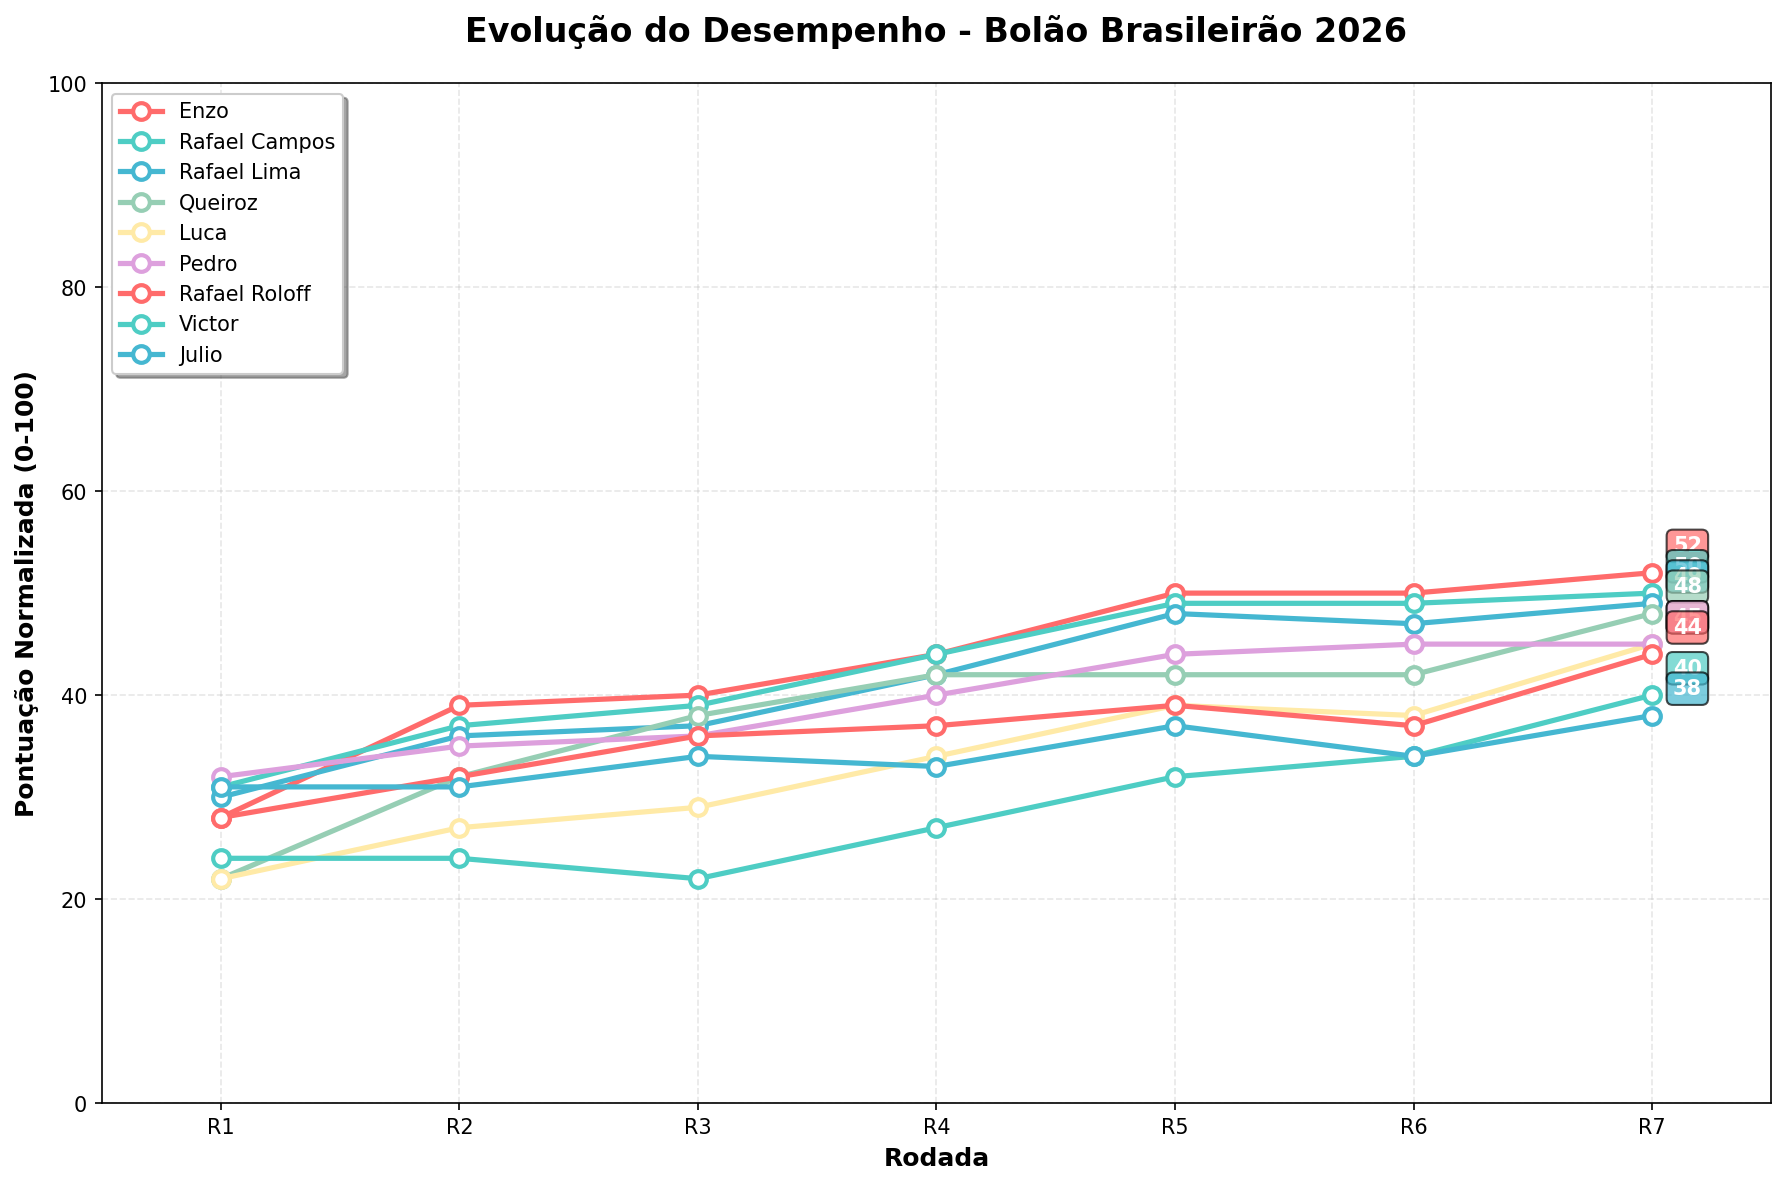
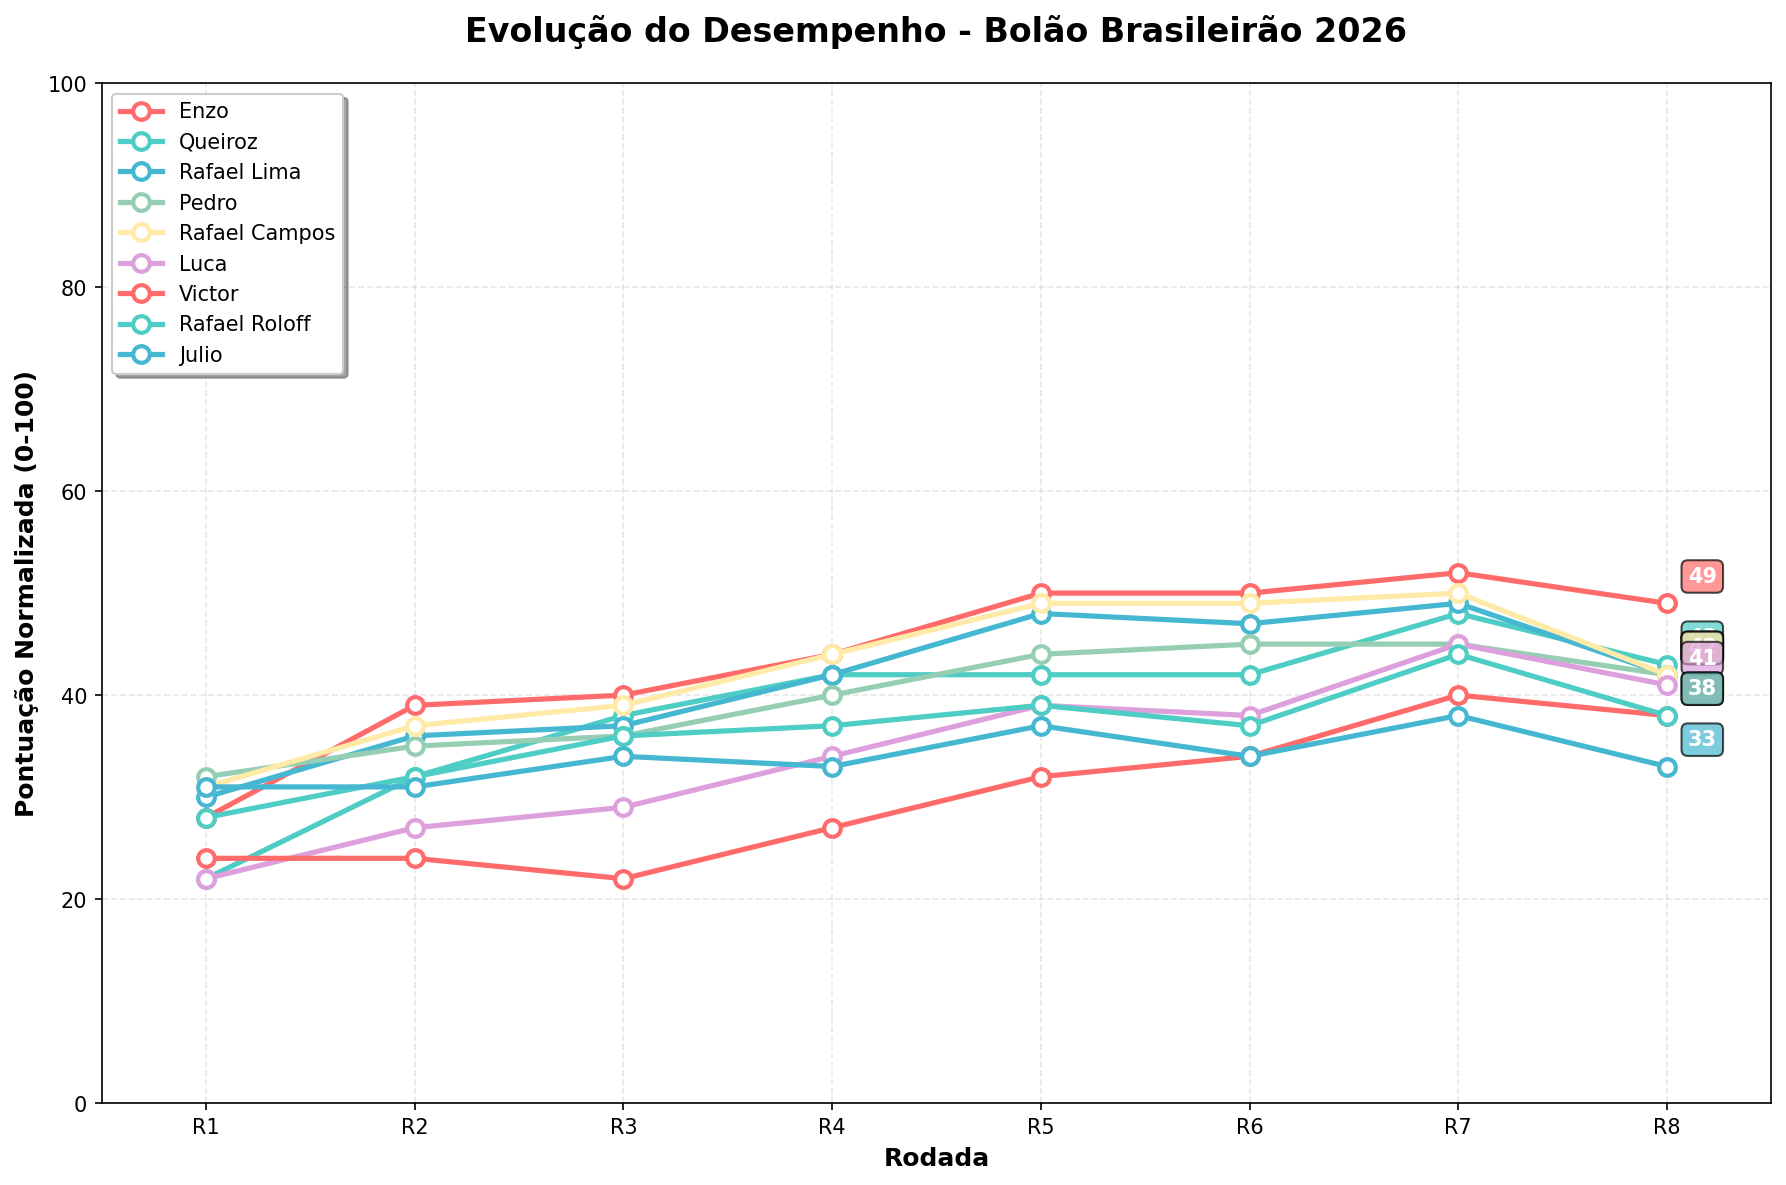
Atualizacao automatica - 23/03/2026 11:00:05,77

diff --git a/README.md b/README.md
@@ -2,68 +2,69 @@
 
 ## 🏆 Resultados Atuais
 
-**Última Atualização:** 2026-03-21 11:00:03
+**Última Atualização:** 2026-03-23 11:00:04
 
-| Time | Real | Enzo | Rafael Campos | Rafael Lima | Queiroz | Luca | Pedro | Rafael Roloff | Victor | Julio |
+| Time | Real | Enzo | Queiroz | Rafael Lima | Pedro | Rafael Campos | Luca | Victor | Rafael Roloff | Julio |
 |------|------|------|------|------|------|------|------|------|------|------|
-| Palmeiras | 1 | 2°(19p) | 3°(18p) | 3°(18p) | 3°(18p) | 3°(18p) | 3°(18p) | 2°(19p) | 3°(18p) | 2°(19p) |
-| São Paulo | 2 | 16°(6p) | 12°(10p) | 14°(8p) | 17°(5p) | 14°(8p) | 15°(7p) | 16°(6p) | 16°(6p) | 15°(7p) |
-| Bahia | 3 | 5°(18p) | 4°(19p) | 4°(19p) | 4°(19p) | 5°(18p) | 7°(16p) | 6°(17p) | 9°(14p) | 5°(18p) |
-| Flamengo | 4 | 1°(17p) | 1°(17p) | 1°(17p) | 1°(17p) | 1°(17p) | 2°(18p) | 1°(17p) | 1°(17p) | 1°(17p) |
-| Fluminense | 5 | 4°(19p) | 7°(18p) | 6°(19p) | 7°(18p) | 8°(17p) | 4°(19p) | 8°(17p) | 10°(15p) | 7°(18p) |
-| Coritiba | 6 | 15°(11p) | 16°(10p) | 16°(10p) | 12°(14p) | 20°(6p) | 19°(7p) | 14°(12p) | 20°(6p) | 19°(7p) |
-| Grêmio | 7 | 7°(20p) | 6°(19p) | 7°(20p) | 5°(18p) | 6°(19p) | 6°(19p) | 12°(15p) | 4°(17p) | 18°(9p) |
-| Atlético-PR | 8 | 17°(11p) | 17°(11p) | 17°(11p) | 15°(13p) | 17°(11p) | 18°(10p) | 17°(11p) | 13°(15p) | 17°(11p) |
-| Corinthians | 9 | 8°(19p) | 8°(19p) | 9°(20p) | 6°(17p) | 10°(19p) | 8°(19p) | 5°(16p) | 8°(19p) | 9°(20p) |
-| Vasco | 10 | 9°(19p) | 14°(16p) | 15°(15p) | 10°(20p) | 9°(19p) | 10°(20p) | 11°(19p) | 12°(18p) | 11°(19p) |
-| Atlético-MG | 11 | 12°(19p) | 5°(14p) | 5°(14p) | 9°(18p) | 4°(13p) | 13°(18p) | 4°(13p) | 2°(11p) | 4°(13p) |
-| Bragantino | 12 | 6°(14p) | 10°(18p) | 10°(18p) | 18°(14p) | 13°(19p) | 9°(17p) | 13°(19p) | 15°(17p) | 10°(18p) |
-| Vitória | 13 | 18°(15p) | 18°(15p) | 18°(15p) | 19°(14p) | 18°(15p) | 17°(16p) | 18°(15p) | 17°(16p) | 16°(17p) |
-| Chapecoense | 14 | 19°(15p) | 19°(15p) | 19°(15p) | 20°(14p) | 19°(15p) | 20°(14p) | 19°(15p) | 18°(16p) | 20°(14p) |
-| Mirassol | 15 | 13°(18p) | 11°(16p) | 11°(16p) | 8°(13p) | 12°(17p) | 12°(17p) | 10°(15p) | 14°(19p) | 8°(13p) |
-| Santos | 16 | 11°(15p) | 13°(17p) | 12°(16p) | 13°(17p) | 7°(11p) | 11°(15p) | 9°(13p) | 11°(15p) | 12°(16p) |
-| Internacional | 17 | 14°(17p) | 15°(18p) | 13°(16p) | 14°(17p) | 15°(18p) | 14°(17p) | 15°(18p) | 6°(9p) | 14°(17p) |
-| Botafogo | 18 | 10°(12p) | 9°(11p) | 8°(10p) | 11°(13p) | 11°(13p) | 5°(7p) | 7°(9p) | 5°(7p) | 6°(8p) |
-| Cruzeiro | 19 | 3°(4p) | 2°(3p) | 2°(3p) | 2°(3p) | 2°(3p) | 1°(2p) | 3°(4p) | 7°(8p) | 3°(4p) |
-| Remo | 20 | 20°(20p) | 20°(20p) | 20°(20p) | 16°(16p) | 16°(16p) | 16°(16p) | 20°(20p) | 19°(19p) | 13°(13p) |
-| **TOTAL** | | **308** | **304** | **300** | **298** | **292** | **292** | **290** | **282** | **278** |
+| Palmeiras | 1 | 2°(19p) | 3°(18p) | 3°(18p) | 3°(18p) | 3°(18p) | 3°(18p) | 3°(18p) | 2°(19p) | 2°(19p) |
+| São Paulo | 2 | 16°(6p) | 17°(5p) | 14°(8p) | 15°(7p) | 12°(10p) | 14°(8p) | 16°(6p) | 16°(6p) | 15°(7p) |
+| Fluminense | 3 | 4°(19p) | 7°(16p) | 6°(17p) | 4°(19p) | 7°(16p) | 8°(15p) | 10°(13p) | 8°(15p) | 7°(16p) |
+| Flamengo | 4 | 1°(17p) | 1°(17p) | 1°(17p) | 2°(18p) | 1°(17p) | 1°(17p) | 1°(17p) | 1°(17p) | 1°(17p) |
+| Bahia | 5 | 5°(20p) | 4°(19p) | 4°(19p) | 7°(18p) | 4°(19p) | 5°(20p) | 9°(16p) | 6°(19p) | 5°(20p) |
+| Atlético-PR | 6 | 17°(9p) | 15°(11p) | 17°(9p) | 18°(8p) | 17°(9p) | 17°(9p) | 13°(13p) | 17°(9p) | 17°(9p) |
+| Coritiba | 7 | 15°(12p) | 12°(15p) | 16°(11p) | 19°(8p) | 16°(11p) | 20°(7p) | 20°(7p) | 14°(13p) | 19°(8p) |
+| Grêmio | 8 | 7°(19p) | 5°(17p) | 7°(19p) | 6°(18p) | 6°(18p) | 6°(18p) | 4°(16p) | 12°(16p) | 18°(10p) |
+| Vasco | 9 | 9°(20p) | 10°(19p) | 15°(14p) | 10°(19p) | 14°(15p) | 9°(20p) | 12°(17p) | 11°(18p) | 11°(18p) |
+| Vitória | 10 | 18°(12p) | 19°(11p) | 18°(12p) | 17°(13p) | 18°(12p) | 18°(12p) | 17°(13p) | 18°(12p) | 16°(14p) |
+| Corinthians | 11 | 8°(17p) | 6°(15p) | 9°(18p) | 8°(17p) | 8°(17p) | 10°(19p) | 8°(17p) | 5°(14p) | 9°(18p) |
+| Internacional | 12 | 14°(18p) | 14°(18p) | 13°(19p) | 14°(18p) | 15°(17p) | 15°(17p) | 6°(14p) | 15°(17p) | 14°(18p) |
+| Atlético-MG | 13 | 12°(19p) | 9°(16p) | 5°(12p) | 13°(20p) | 5°(12p) | 4°(11p) | 2°(9p) | 4°(11p) | 4°(11p) |
+| Bragantino | 14 | 6°(12p) | 18°(16p) | 10°(16p) | 9°(15p) | 10°(16p) | 13°(19p) | 15°(19p) | 13°(19p) | 10°(16p) |
+| Chapecoense | 15 | 19°(16p) | 20°(15p) | 19°(16p) | 20°(15p) | 19°(16p) | 19°(16p) | 18°(17p) | 19°(16p) | 20°(15p) |
+| Santos | 16 | 11°(15p) | 13°(17p) | 12°(16p) | 11°(15p) | 13°(17p) | 7°(11p) | 11°(15p) | 9°(13p) | 12°(16p) |
+| Botafogo | 17 | 10°(13p) | 11°(14p) | 8°(11p) | 5°(8p) | 9°(12p) | 11°(14p) | 5°(8p) | 7°(10p) | 6°(9p) |
+| Mirassol | 18 | 13°(15p) | 8°(10p) | 11°(13p) | 12°(14p) | 11°(13p) | 12°(14p) | 14°(16p) | 10°(12p) | 8°(10p) |
+| Remo | 19 | 20°(19p) | 16°(17p) | 20°(19p) | 16°(17p) | 20°(19p) | 16°(17p) | 19°(20p) | 20°(19p) | 13°(14p) |
+| Cruzeiro | 20 | 3°(3p) | 2°(2p) | 2°(2p) | 1°(1p) | 2°(2p) | 2°(2p) | 7°(7p) | 3°(3p) | 3°(3p) |
+| **TOTAL** | | **300** | **288** | **286** | **286** | **286** | **284** | **278** | **278** | **268** |
 
 ### 🏅 Classificação Atual (pontuação normalizada 0-100)
 
-🥇 **Enzo**: 52 pontos<br>
-🥈 **Rafael Campos**: 50 pontos<br>
-🥉 **Rafael Lima**: 49 pontos<br>
-4. **Queiroz**: 48 pontos<br>
-5. **Luca**: 45 pontos<br>
-6. **Pedro**: 45 pontos<br>
-7. **Rafael Roloff**: 44 pontos<br>
-8. **Victor**: 40 pontos<br>
-9. **Julio**: 38 pontos<br>
+🥇 **Enzo**: 49 pontos<br>
+🥈 **Queiroz**: 43 pontos<br>
+🥉 **Rafael Lima**: 42 pontos<br>
+4. **Pedro**: 42 pontos<br>
+5. **Rafael Campos**: 42 pontos<br>
+6. **Luca**: 41 pontos<br>
+7. **Victor**: 38 pontos<br>
+8. **Rafael Roloff**: 38 pontos<br>
+9. **Julio**: 33 pontos<br>
 
 ### 📈 Histórico de Desempenho
 
 ![Gráfico de Performance](performance_chart.png)
 
-| Rodada | Enzo | Rafael Campos | Rafael Lima | Queiroz | Luca | Pedro | Rafael Roloff | Victor | Julio |
+| Rodada | Enzo | Queiroz | Rafael Lima | Pedro | Rafael Campos | Luca | Victor | Rafael Roloff | Julio |
 |-------|-------|-------|-------|-------|-------|-------|-------|-------|-------|
-| R1 | 28 | 31 | 30 | 22 | 22 | 32 | 28 | 24 | 31 |
-| R2 | 39 | 37 | 36 | 32 | 27 | 35 | 32 | 24 | 31 |
-| R3 | 40 | 39 | 37 | 38 | 29 | 36 | 36 | 22 | 34 |
-| R4 | 44 | 44 | 42 | 42 | 34 | 40 | 37 | 27 | 33 |
-| R5 | 50 | 49 | 48 | 42 | 39 | 44 | 39 | 32 | 37 |
-| R6 | 50 | 49 | 47 | 42 | 38 | 45 | 37 | 34 | 34 |
-| R7 | 52 | 50 | 49 | 48 | 45 | 45 | 44 | 40 | 38 |
+| R1 | 28 | 22 | 30 | 32 | 31 | 22 | 24 | 28 | 31 |
+| R2 | 39 | 32 | 36 | 35 | 37 | 27 | 24 | 32 | 31 |
+| R3 | 40 | 38 | 37 | 36 | 39 | 29 | 22 | 36 | 34 |
+| R4 | 44 | 42 | 42 | 40 | 44 | 34 | 27 | 37 | 33 |
+| R5 | 50 | 42 | 48 | 44 | 49 | 39 | 32 | 39 | 37 |
+| R6 | 50 | 42 | 47 | 45 | 49 | 38 | 34 | 37 | 34 |
+| R7 | 52 | 48 | 49 | 45 | 50 | 45 | 40 | 44 | 38 |
+| R8 | 49 | 43 | 42 | 42 | 42 | 41 | 38 | 38 | 33 |
 
 **Tendência (últimas 2 medições):**
-- **Enzo**: 📈 +2
-- **Rafael Campos**: 📈 +1
-- **Rafael Lima**: 📈 +2
-- **Queiroz**: 📈 +6
-- **Luca**: 📈 +7
-- **Pedro**: ➡ =0
-- **Rafael Roloff**: 📈 +7
-- **Victor**: 📈 +6
-- **Julio**: 📈 +4
+- **Enzo**: 📉 -3
+- **Queiroz**: 📉 -5
+- **Rafael Lima**: 📉 -7
+- **Pedro**: 📉 -3
+- **Rafael Campos**: 📉 -8
+- **Luca**: 📉 -4
+- **Victor**: 📉 -2
+- **Rafael Roloff**: 📉 -6
+- **Julio**: 📉 -5
 
 ## 🎯 Sistema de Pontuação
 
